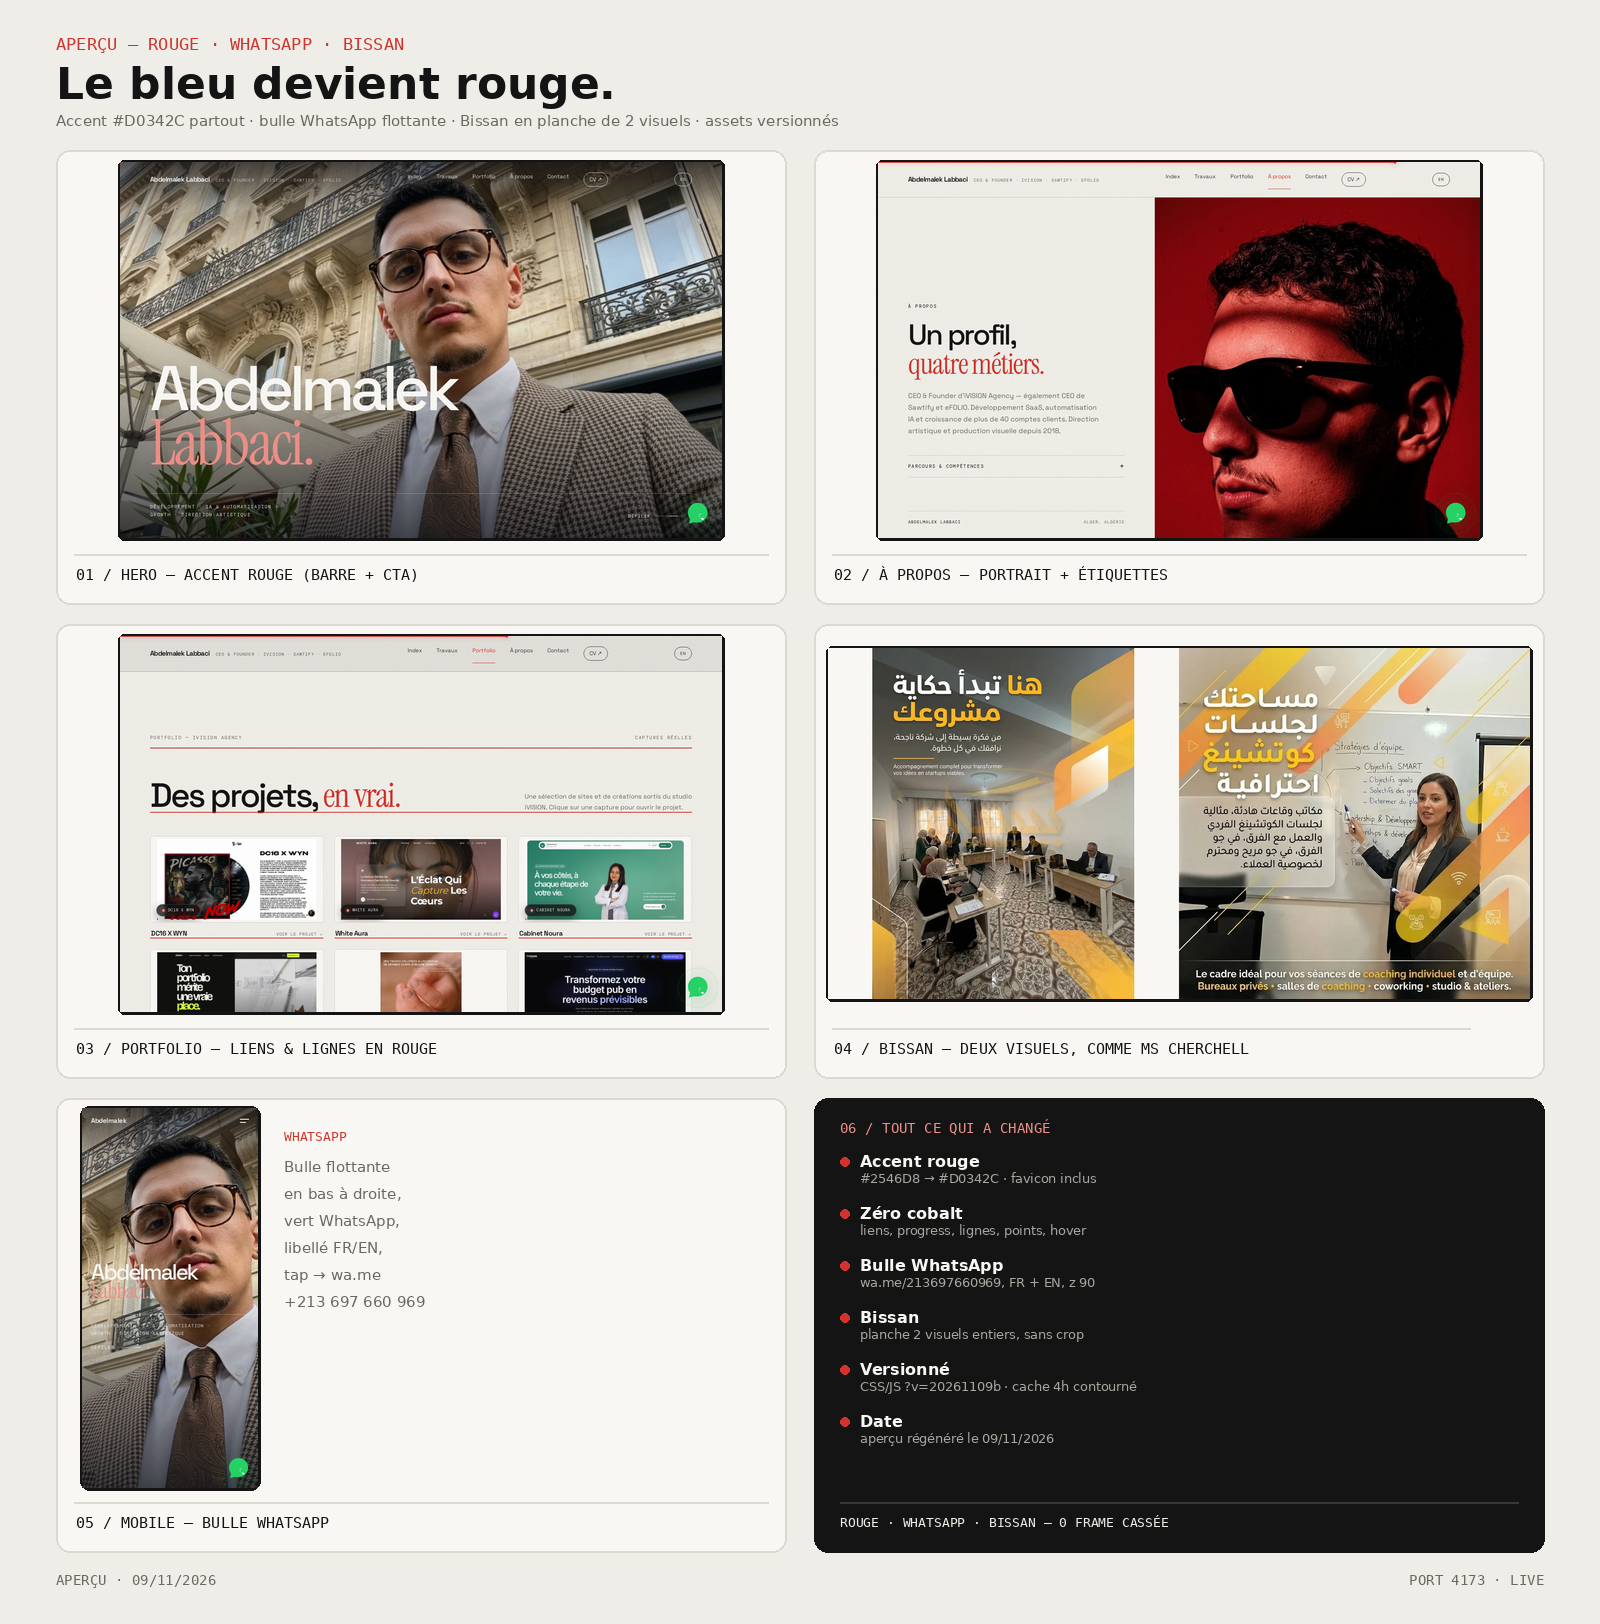
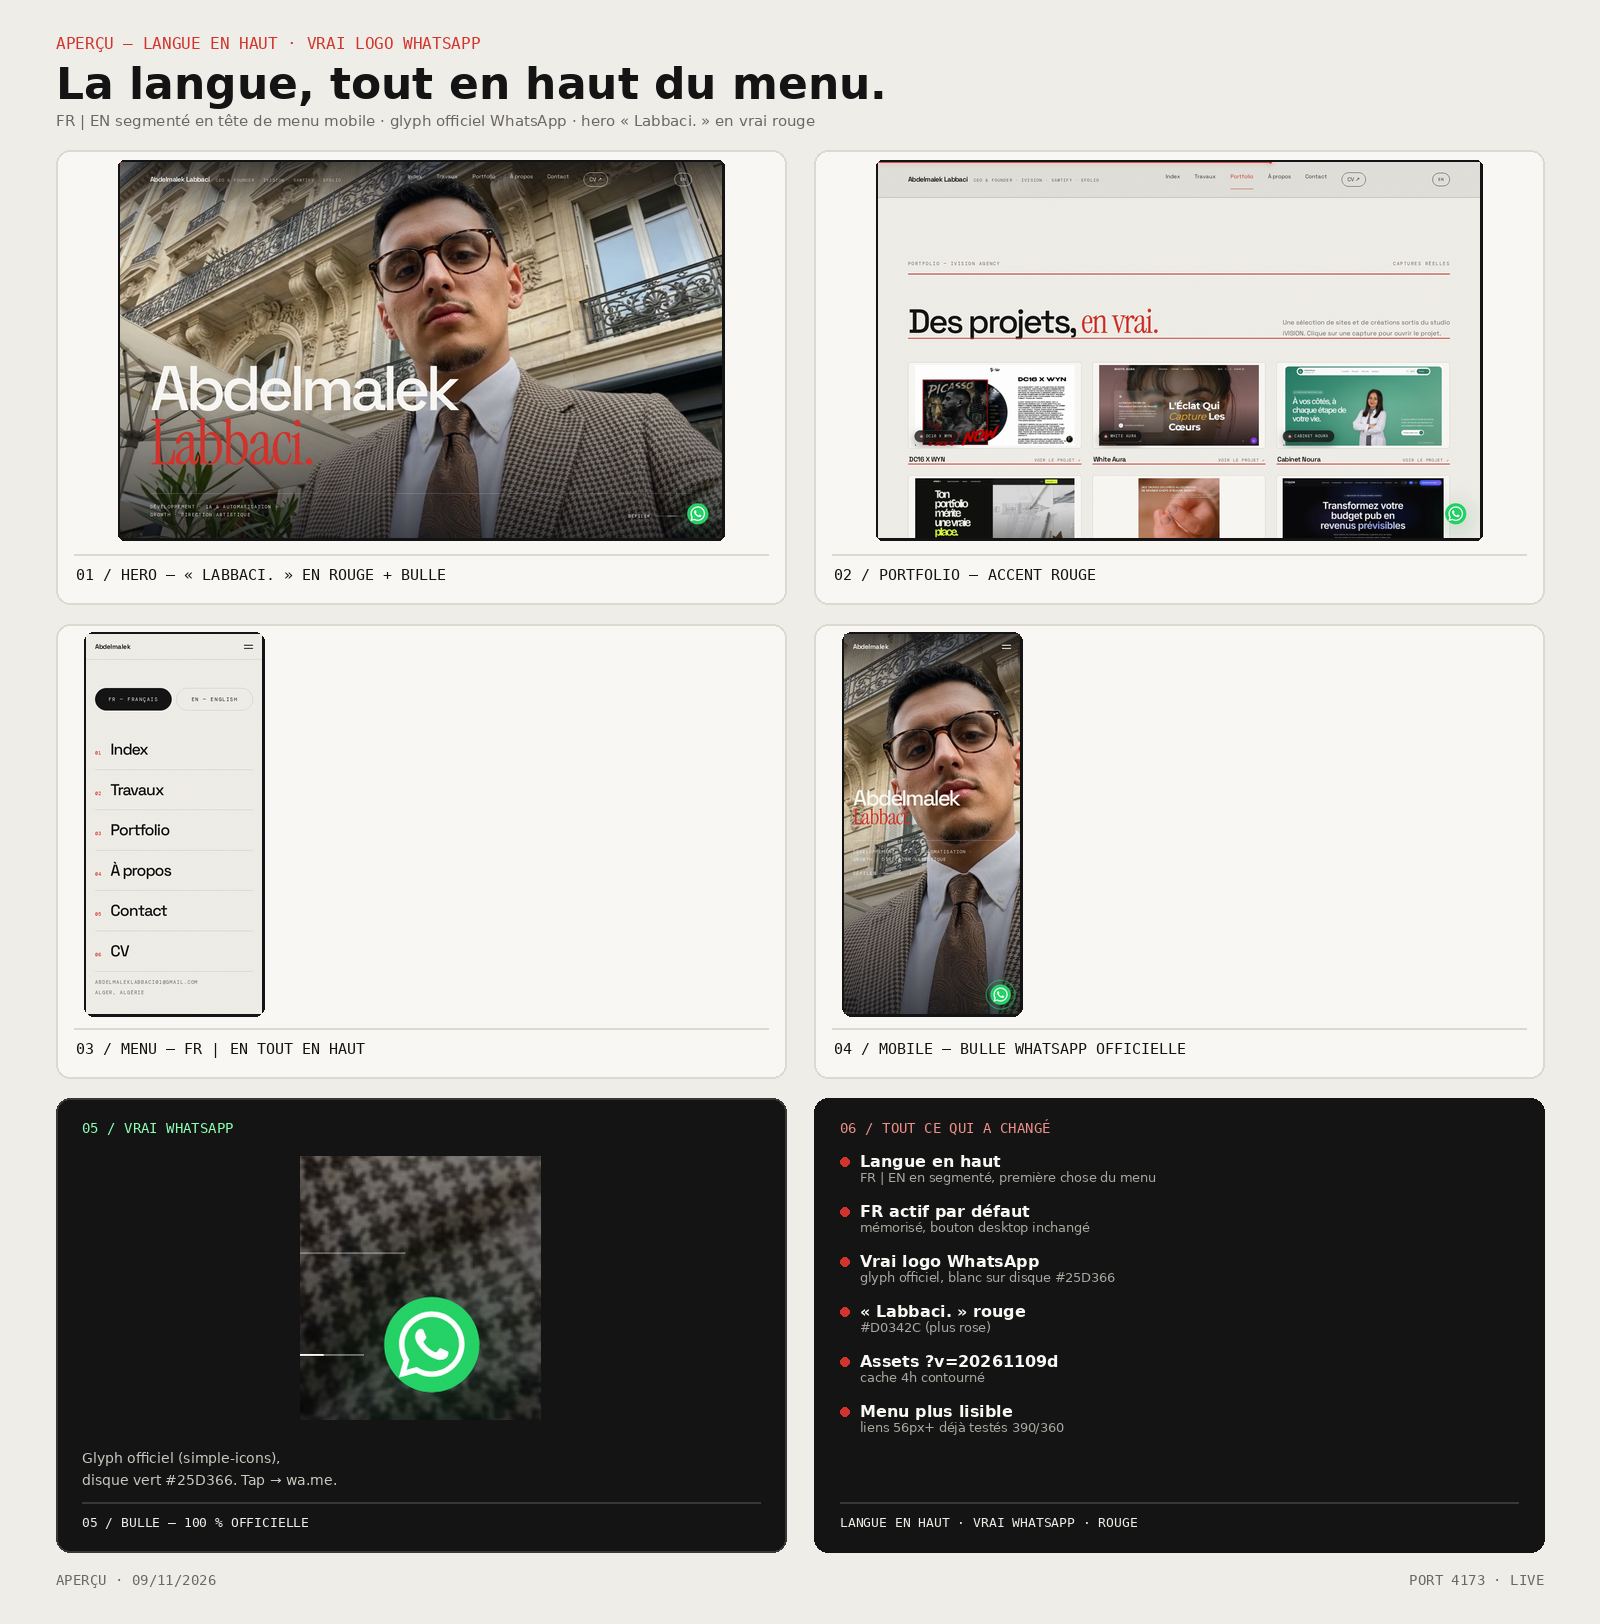
Add files via upload

diff --git a/index.html b/index.html
@@ -14,7 +14,7 @@
   <link rel="icon" type="image/svg+xml" href="favicon.svg">
   <link rel="preload" href="assets/fonts/space-grotesk-latin.woff2" as="font" type="font/woff2" crossorigin>
   <script>document.documentElement.classList.add('js')</script>
-  <link rel="stylesheet" href="assets/css/style.css?v=20261109c">
+  <link rel="stylesheet" href="assets/css/style.css?v=20261109d">
 </head>
 <body>
 
@@ -45,6 +45,10 @@
 
   <!-- ================= MENU MOBILE ================= -->
   <div class="menu" id="mobileMenu" aria-hidden="true">
+    <div class="menu__langrow" role="group" aria-label="Langue / Language">
+      <button class="menu__langopt is-active" type="button" data-set-lang="fr" aria-pressed="true">FR — Français</button>
+      <button class="menu__langopt" type="button" data-set-lang="en" aria-pressed="false">EN — English</button>
+    </div>
     <nav aria-label="Navigation mobile">
       <a href="#index"><span>01</span><span data-i18n="nav.index">Index</span></a>
       <a href="#work"><span>02</span><span data-i18n="nav.work">Travaux</span></a>
@@ -53,7 +57,6 @@
       <a href="#contact"><span>05</span><span data-i18n="nav.contact">Contact</span></a>
       <a data-bind-href="cv" data-cv-download href="assets/RESUMEanglais.pdf" download><span>06</span><span data-i18n="nav.cv">CV</span></a>
     </nav>
-    <button class="menu__lang" id="menuLangToggle" type="button">EN</button>
     <div class="menu__foot"><span data-bind="email">abdelmaleklabbaci01@gmail.com</span><span data-bind="location">Alger, Algérie</span></div>
   </div>
 
@@ -304,17 +307,16 @@
   <!-- ================= WHATSAPP BUBBLE ================= -->
   <a class="wa-bubble" href="https://wa.me/213697660969?text=Bonjour%20Abdelmalek%20!" target="_blank" rel="noopener noreferrer" aria-label="Discuter sur WhatsApp">
     <svg viewBox="0 0 64 64" role="img" aria-hidden="true">
-      <circle cx="32" cy="28.5" r="24" fill="#25D366"/>
-      <path fill="#25D366" stroke="#25D366" stroke-width="2.5" stroke-linejoin="round" d="M15.5 46.5 L6.5 58 L20 51.5 Z"/>
-      <g transform="translate(17 13.5) scale(1.32)" fill="#FFFFFF">
-        <path d="M22 16.92v3a2 2 0 0 1-2.18 2 19.79 19.79 0 0 1-8.63-3.07 19.5 19.5 0 0 1-6-6 19.79 19.79 0 0 1-3.07-8.67A2 2 0 0 1 4.11 2h3a2 2 0 0 1 2 1.72c.13.96.36 1.9.7 2.81a2 2 0 0 1-.45 2.11L8.09 11.91a16 16 0 0 0 6 6l3.27-1.27a2 2 0 0 1 2.11.45c.91.34 1.85.57 2.81.7A2 2 0 0 1 22 16.92z"/>
+      <circle cx="32" cy="32" r="27" fill="#25D366"/>
+      <g transform="translate(13.2 13.2) scale(1.56)" fill="#FFFFFF">
+        <path d="M17.472 14.382c-.297-.149-1.758-.867-2.03-.967-.273-.099-.471-.148-.67.15-.197.297-.767.966-.94 1.164-.173.199-.347.223-.644.075-.297-.15-1.255-.463-2.39-1.475-.883-.788-1.48-1.761-1.653-2.059-.173-.297-.018-.458.13-.606.134-.133.298-.347.446-.52.149-.174.198-.298.298-.497.099-.198.05-.371-.025-.52-.075-.149-.669-1.612-.916-2.207-.242-.579-.487-.5-.669-.51-.173-.008-.371-.01-.57-.01-.198 0-.52.074-.792.372-.272.297-1.04 1.016-1.04 2.479 0 1.462 1.065 2.875 1.213 3.074.149.198 2.096 3.2 5.077 4.487.709.306 1.262.489 1.694.625.712.227 1.36.195 1.871.118.571-.085 1.758-.719 2.006-1.413.248-.694.248-1.289.173-1.413-.074-.124-.272-.198-.57-.347m-5.421 7.403h-.004a9.87 9.87 0 01-5.031-1.378l-.361-.214-3.741.982.998-3.648-.235-.374a9.86 9.86 0 01-1.51-5.26c.001-5.45 4.436-9.884 9.888-9.884 2.64 0 5.122 1.03 6.988 2.898a9.825 9.825 0 012.893 6.994c-.003 5.45-4.437 9.884-9.885 9.884m8.413-18.297A11.815 11.815 0 0012.05 0C5.495 0 .16 5.335.157 11.892c0 2.096.547 4.142 1.588 5.945L.057 24l6.305-1.654a11.882 11.882 0 005.683 1.448h.005c6.554 0 11.89-5.335 11.893-11.893a11.821 11.821 0 00-3.48-8.413Z"/>
       </g>
     </svg>
     <span class="wa-bubble__ping" aria-hidden="true"></span>
     <span class="wa-bubble__label" data-i18n="wa.label">Discute avec moi</span>
   </a>
 
-  <script src="assets/js/config.js?v=20261109c"></script>
-  <script src="assets/js/main.js?v=20261109c"></script>
+  <script src="assets/js/config.js?v=20261109d"></script>
+  <script src="assets/js/main.js?v=20261109d"></script>
 </body>
 </html>

diff --git a/assets/js/main.js b/assets/js/main.js
@@ -117,12 +117,16 @@
       const lbl = document.querySelector('.cv-toggle__label');
       if (lbl) lbl.textContent = dict['cv.hide'];
     }
-    ['langToggle','menuLangToggle'].forEach(id => {
-      const b = document.getElementById(id);
-      if (!b) return;
-      b.textContent = lang === 'fr' ? 'EN' : 'FR';
+    const btn = document.getElementById('langToggle');
+    if (btn) {
+      btn.textContent = lang === 'fr' ? 'EN' : 'FR';
       const label = lang === 'fr' ? 'Switch to English' : 'Passer en français';
-      b.title = label; b.setAttribute('aria-label', label);
+      btn.title = label; btn.setAttribute('aria-label', label);
+    }
+    document.querySelectorAll('[data-set-lang]').forEach(b => {
+      const active = b.dataset.setLang === lang;
+      b.classList.toggle('is-active', active);
+      b.setAttribute('aria-pressed', String(active));
     });
     updateClock();
     try { localStorage.setItem('pf2-lang', lang); } catch (e) {}
@@ -260,8 +264,7 @@
   menu.querySelectorAll('a').forEach(a => a.addEventListener('click', () => setMenu(false)));
   document.addEventListener('keydown', e => { if (e.key === 'Escape') setMenu(false); });
   document.getElementById('langToggle').addEventListener('click', () => applyLang(lang === 'fr' ? 'en' : 'fr'));
-  const menuLangBtn = document.getElementById('menuLangToggle');
-  if (menuLangBtn) menuLangBtn.addEventListener('click', () => { applyLang(lang === 'fr' ? 'en' : 'fr'); setMenu(false); });
+  document.querySelectorAll('[data-set-lang]').forEach(b => b.addEventListener('click', () => applyLang(b.dataset.setLang)));
 
   /* ---------------------------------------------------------
      4. Parcours dépliable

diff --git a/assets/css/style.css b/assets/css/style.css
@@ -76,8 +76,9 @@ h1,h2,p,figure{margin:0}
 .menu nav a{display:flex;align-items:baseline;gap:20px;border-bottom:1px solid var(--line);padding:18px 0;font-size:clamp(2rem,9vw,3.4rem);font-weight:500;letter-spacing:-.055em}
 .menu nav a span:first-child{font-family:"DM Mono",monospace;font-size:.7rem;letter-spacing:0;color:var(--accent)}
 .menu__foot{display:flex;flex-direction:column;gap:6px;font-size:.68rem;letter-spacing:.08em;text-transform:uppercase;color:var(--muted)}
-.menu__lang{display:inline-flex;align-items:center;justify-content:center;gap:8px;width:max-content;margin-top:28px;padding:16px 26px;border:1px solid var(--line);border-radius:999px;background:transparent;color:var(--ink);font-family:"DM Mono",monospace;font-size:.72rem;letter-spacing:.18em;text-transform:uppercase;cursor:pointer;transition:background .3s,color .3s,border-color .3s}
-.menu__lang:hover{background:var(--ink);color:var(--paper);border-color:var(--ink)}
+.menu__langrow{display:flex;gap:10px;margin-bottom:26px}
+.menu__langopt{flex:1;display:flex;align-items:center;justify-content:center;padding:16px 10px;border:1px solid var(--line);border-radius:999px;background:transparent;color:var(--ink);font-family:"DM Mono",monospace;font-size:.68rem;letter-spacing:.14em;text-transform:uppercase;cursor:pointer;transition:background .3s,color .3s,border-color .3s}
+.menu__langopt.is-active{background:var(--ink);color:var(--paper);border-color:var(--ink)}
 
 /* ---------- Hero ---------- */
 .hero{position:relative;height:100svh;min-height:640px;overflow:hidden;color:var(--white);isolation:isolate}

diff --git a/README.md b/README.md
@@ -29,14 +29,14 @@ très peu de texte. Le contenu vient de `RESUMEanglais.pdf` (ton CV anglais) et 
   les libellés de section s’empilent, les liens de contact passent en grille 2 colonnes.
   Testé à 360 et 390 px : aucun débordement horizontal.
 - **Accent rouge** : le cobalt (#2546D8) devient **#D0342C** partout (liens, surbrillances, barre de progression, lignes, points des étiquettes, favicon).
-- **Bulle WhatsApp** : bouton flottant en bas à droite (`wa.me/213697660969`), libellé FR « Discute avec moi » / EN « Chat with me », vert WhatsApp, hors reduced-motion sans effet ping.
+- **Bulle WhatsApp** : bouton flottant en bas à droite (`wa.me/213697660969`), **logo officiel WhatsApp** (glyph SVG white sur disque vert), libellé FR « Discute avec moi » / EN « Chat with me », hors reduced-motion sans effet ping.
 - **Bissan** : la capture est une **planche de 2 visuels** (comme MS Cherchell) — Visuel Fraîcheur (« ici commence ton projet ») + coaching / coworking.
 - **Photos personnelles** (hero + À propos) et mentions **CEO & Founder d'iVISION · Sawtify · eFOLIO**
   (header desktop, bio, footer).
 - **Étiquettes nom sur les photos de projets** : chaque capture affiche un badge sombre « NOM DU PROJET »
   avec point cobalt (galerie desktop, liste mobile, grille portfolio).
-- **Mobile** : header compact (prénom + burger, 56 px), sélecteur de langue déplacé dans le menu
-  (« EN »), barre de progression en filet simple sans halo.
+- **Mobile** : header compact (prénom + burger, 56 px) ; **langue FR/EN segmentée tout en haut du menu**
+  (FR actif par défaut), barre de progression en filet simple sans halo.
 - **Animations au scroll & au survol** (zéro librairie, 100 % CSS + JS natif) :
   révélation au défilement avec clip + fondu et **stagger** de 70 ms par élément,
   **ligne cobalt qui se dessine** sous les en-têtes et les cartes, **halo cobalt qui suit
